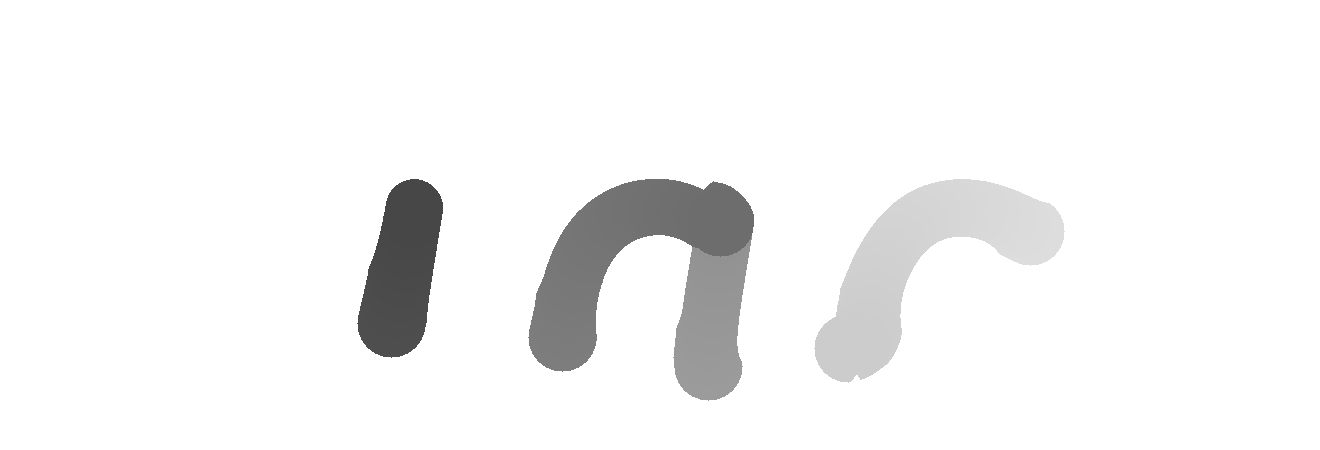
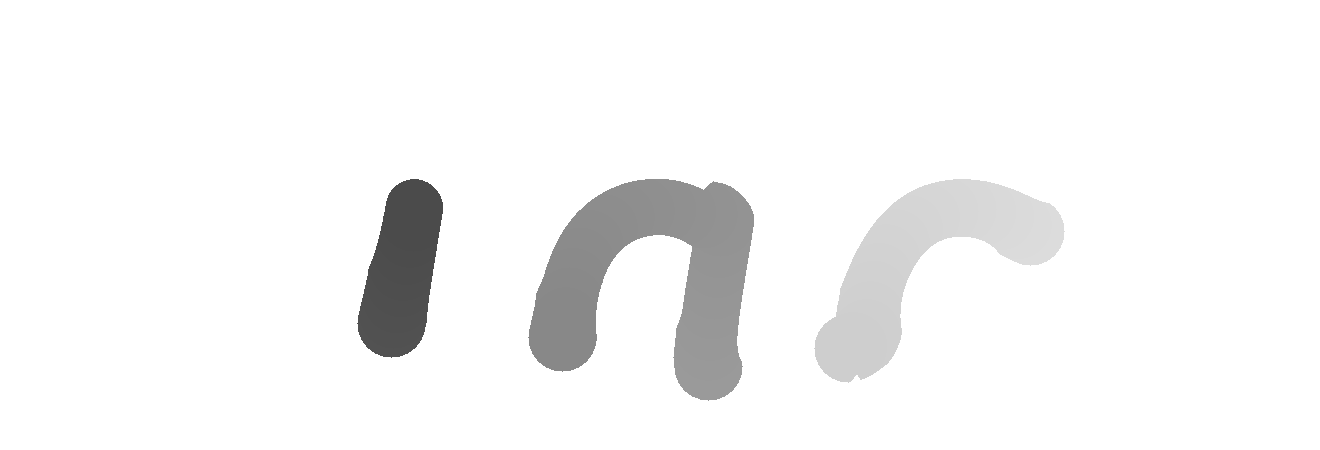
Card Ciao!: percorso fluido senza inversioni (i fino all'apice, a e o in senso orario continuo fino al gambetto) con ownership per segmento

Changed region(s): [[0.4348, 0.3733, 0.5902, 0.5911]]

diff --git a/scripts/gen-ciao-data.js b/scripts/gen-ciao-data.js
@@ -136,66 +136,66 @@ function segLen(pts) {
 
 // Segmenti base del "Ciao!"
 const iUpStartIdx = P0.findIndex(([x, y]) => x >= 388 && y <= 332); // punto in cui la C entra nello stelo della 'i'
-const sC    = P0;                              // C -> sale fino all'apice della 'i' (413, 208)
-const sIDn  = P0.slice(iUpStartIdx).reverse(); // ritorno completo dall'apice della 'i' fino in basso (390, 328)
-const sICon = P1.slice(0, 26);                 // curva bassa della 'i' e collegamento fino a 'a'
-const sAT   = P1.slice(25, 53);                // a: sale a sinistra e gira sopra -> (720, 222)
-const sATBk = [...sAT].reverse();              // a: ritorno sopra in senso antiorario -> (562, 337)
-const sAB   = P2;                              // a: gira sotto da sinistra a destra -> (706, 367)
-const sASUp = P1.slice(52, 69).reverse();      // a: risale lo stelo destro -> (720, 222)
-const sASDn = P1.slice(52, 69);                // a: riscende lo stelo destro -> (708, 366)
-const sAO   = P1.slice(68, 87);                // collegamento a -> o (867, 341)
-const sOT   = P1.slice(86, 117);               // o: sale a sinistra e gira sopra -> (1030, 231)
-const sOB   = P3;                              // o: scende a destra e gira sotto -> (867, 341)
-const sOT2  = P1.slice(86, 117);               // o: risale a sinistra e ripassa sopra -> (1030, 231) per uscire nella codina
-const sOTl  = P1.slice(116);                   // o: codina di uscita -> (1122, 204)
-const sBng  = P4;                              // ! asta
+const sC     = P0;                              // C -> sale fino all'apice della 'i' (413, 208)
+const sIDn   = P0.slice(iUpStartIdx).reverse(); // ritorno completo dall'apice della 'i' fino in basso (390, 328)
+const sICon  = P1.slice(2, 26);                 // curva bassa della 'i' e rampa fino a 'a' (parte dopo il bivio)
+const sAT    = P1.slice(25, 53);                // a: sale a sinistra e gira sopra -> (720, 222)
+const sAS    = P1.slice(52, 69);                // a: scende sullo stelo destro -> (708, 366)
+const sABRev = [...P2].reverse();               // a: chiude il fondo in senso orario -> (562, 343)
+const sAO    = P1.slice(68, 87);                // rampa di collegamento a -> o (867, 341)
+const sOT    = P1.slice(86, 117);               // o: sale a sinistra e gira sopra -> (1030, 231)
+const sOB    = P3;                              // o: scende a destra e chiude il fondo in senso orario -> (867, 341)
+const sOTl   = P1.slice(116);                   // o: gambetto finale nello stesso verso -> (1122, 204)
+const sBng   = P4;                              // ! asta
 
-// Percorso umano completo a penna singola (velocita' lineare costante):
-// pass = 1 (primo passaggio che scopre il vetro), pass = 2 (ripasso che da' profondita'/spessore)
+// Percorso fluido senza cambi di direzione repentini:
+// - C -> sale fino all'apice della 'i' -> stellina -> scende tutta la 'i' -> rampa verso 'a'
+// - 'a': un solo giro continuo in senso orario (sale sx -> sopra -> scende dx -> fondo -> ripasso leggero sopra/dx -> esce)
+// - 'o': dalla rampa della 'a', giro continuo in senso orario (sale sx -> sopra -> scende dx -> fondo -> ripasso sopra -> esce nel gambetto)
 const rawBody = [];
 let cur = 0;
-function pushSeg(pts, pass = 1, gap = 0) {
+function pushSeg(pts, pass = 1, speedMul = 1, gap = 0) {
   cur += gap;
   const len = segLen(pts);
-  rawBody.push({ pts, pass, s0: cur, s1: cur + len });
-  cur += len;
+  const dur = len / speedMul;
+  rawBody.push({ id: rawBody.length, pts, pass, s0: cur, s1: cur + dur });
+  cur += dur;
 }
 
-pushSeg(sC, 1);                 // C -> sale fino all'apice della 'i'
-const sparkStart = cur;         // stellina messa esattamente all'apice della 'i'
-const sparkEnd = sparkStart + 115;
-cur = sparkEnd + 25;
-pushSeg(sIDn, 2);               // scende lungo tutta l'asta della 'i' (ripasso con profondita')
-pushSeg(sICon, 1);              // curva bassa della 'i' fino a 'a'
-pushSeg(sAT, 1);                // a: sale a sinistra e gira sopra
-pushSeg(sATBk, 2);              // a: torna indietro antiorario sopra l'arco (ripasso con profondita')
-pushSeg(sAB, 1);                // a: chiude il fondo da sinistra a destra
-pushSeg(sASUp, 1);              // a: risale lo stelo destro
-pushSeg(sASDn, 2);              // a: riscende lo stelo destro (ripasso con profondita')
-pushSeg(sAO, 1);                // collegamento a -> o
-pushSeg(sOT, 1);                // o: sale a sinistra e gira sopra
-pushSeg(sOB, 1);                // o: scende a destra e chiude il fondo
-pushSeg(sOT2, 2);               // o: ripassa sull'arco superiore per uscire (effetto profondita' sulla O)
-pushSeg(sOTl, 1);               // o: codina di uscita
+pushSeg(sC, 1, 1.0);              // 0: C -> apice 'i'
+const sparkStart = cur;           // stellina esattamente all'apice della 'i'
+const sparkEnd = sparkStart + 105;
+cur = sparkEnd + 18;
+pushSeg(sIDn, 2, 1.15);           // 1: discesa completa della 'i' (ripasso con profondita')
+pushSeg(sICon, 1, 1.0);           // 2: curva bassa 'i' -> rampa 'a'
+pushSeg(sAT, 1, 1.0);             // 3: a sale sx + arco sopra (orario)
+pushSeg(sAS, 1, 1.0);             // 4: a scende stelo dx (orario)
+pushSeg(sABRev, 1, 1.0);          // 5: a chiude il fondo (orario)
+pushSeg(sAT, 2, 1.45);            // 6: a continua orario sopra (ripasso fluido con profondita')
+pushSeg(sAS, 2, 1.45);            // 7: a riscende stelo dx per uscire fluido (ripasso con profondita')
+pushSeg(sAO, 1, 1.0);             // 8: rampa a -> o
+pushSeg(sOT, 1, 1.0);             // 9: o sale sx + arco sopra (orario)
+pushSeg(sOB, 1, 1.0);             // 10: o scende dx + fondo (orario)
+pushSeg(sOT, 2, 1.35);            // 11: o continua orario sopra (ripasso con profondita')
+pushSeg(sOTl, 1, 1.0);            // 12: o conclude nello stesso verso il gambetto finale
 
-const bangStart = cur + 75;     // stacco penna prima del '!'
+const bangStart = cur + 70;       // stacco penna prima del '!'
 const bangEnd = bangStart + segLen(sBng);
-const dotStart = bangEnd + 45;
-const dotEnd = dotStart + 95;
+const dotStart = bangEnd + 40;
+const dotEnd = dotStart + 90;
 const TOTAL = dotEnd;
 
-const pass1Strokes = rawBody.filter(s => s.pass === 1).map(st => ({ pts: st.pts, t0: st.s0 / TOTAL, t1: st.s1 / TOTAL }));
-const pass2Strokes = rawBody.filter(s => s.pass === 2).map(st => ({ pts: st.pts, t0: st.s0 / TOTAL, t1: st.s1 / TOTAL }));
+const pass1Segs = rawBody.filter(s => s.pass === 1).map(st => ({ id: st.id, pts: st.pts, t0: st.s0 / TOTAL, t1: st.s1 / TOTAL }));
+const pass2Segs = rawBody.filter(s => s.pass === 2).map(st => ({ id: st.id, pts: st.pts, t0: st.s0 / TOTAL, t1: st.s1 / TOTAL }));
 const bangT0 = bangStart / TOTAL, bangT1 = bangEnd / TOTAL;
 const dotT0 = dotStart / TOTAL, dotT1 = dotEnd / TOTAL;
 const sparkT0 = sparkStart / TOTAL, sparkT1 = sparkEnd / TOTAL;
-console.log("Total human cursive path:", Math.round(TOTAL), "px | i-apex spark:", sparkT0.toFixed(3), "..", sparkT1.toFixed(3));
+console.log("Total smooth path:", Math.round(TOTAL), "px | i-apex spark:", sparkT0.toFixed(3), "..", sparkT1.toFixed(3));
 
-// Densifica i campioni ogni ~2px lungo il percorso per un inviluppo circolare perfetto
-function densify(strokes) {
+// Densifica i campioni ogni ~2px mantenendo l'id del segmento per evitare bleed prematuri agli incroci
+function densify(segs) {
   const samples = [];
-  for (const st of strokes) {
+  for (const st of segs) {
     const pts = st.pts;
     const total = segLen(pts) || 1;
     let acc = 0;
@@ -208,37 +208,48 @@ function densify(strokes) {
         for (let k = 1; k <= steps; k++) {
           const f = k / steps;
           const t = st.t0 + (st.t1 - st.t0) * ((acc + d * f) / total);
-          samples.push({ x: x0 + (x1 - x0) * f, y: y0 + (y1 - y0) * f, t });
+          samples.push({ x: x0 + (x1 - x0) * f, y: y0 + (y1 - y0) * f, t, seg: st.id });
         }
         acc += d;
       } else {
-        samples.push({ x: pts[0][0], y: pts[0][1], t: st.t0 });
+        samples.push({ x: pts[0][0], y: pts[0][1], t: st.t0, seg: st.id });
       }
     }
   }
   return samples;
 }
 
-const bodyP1 = densify(pass1Strokes);
-const bodyP2 = densify(pass2Strokes);
-const bangSamples = densify([{ pts: sBng, t0: bangT0, t1: bangT1 }]);
+const bodyP1 = densify(pass1Segs);
+const bodyP2 = densify(pass2Segs);
+const bangSamples = densify([{ id: 99, pts: sBng, t0: bangT0, t1: bangT1 }]);
 
-// Punta a sfera esatta: il primo istante t in cui un cerchio di raggio PEN_R lungo il tratto tocca (x, y).
-const PEN_R = 40;
+// Punta a sfera per segmento: ogni pixel appartiene al segmento piu' vicino (ownerSeg) e accetta
+// solo campioni di ownerSeg o del segmento direttamente adiacente nella sequenza (|seg - ownerSeg| <= 1).
+// Cosi' la C che sale sulla 'i' NON accende prima il tratto d'uscita della 'i', e la 'o' NON accende prima il gambetto finale!
+const PEN_R = 38;
 const PEN_R2 = PEN_R * PEN_R;
-const PEN_R2_P2 = 34 * 34; // leggermente piu' stretto sul ripasso per un rilievo centrale elegante
+const PEN_R2_P2 = 34 * 34;
 
-function ballpointTime(x, y, samples, fallback = true) {
-  let firstT = Infinity;
-  let bestD = Infinity, bestT = 0;
-  const r2 = fallback ? PEN_R2 : PEN_R2_P2;
+function ballpointOwned(x, y, samples, fallback = true) {
+  // 1. Trova il segmento proprietario (piu' vicino alla linea centrale)
+  let bestD = Infinity, bestT = 0, ownerSeg = -1;
   for (let i = 0; i < samples.length; i++) {
+    const dx = x - samples[i].x, dy = y - samples[i].y;
+    const d2 = dx * dx + dy * dy;
+    if (d2 < bestD) { bestD = d2; bestT = samples[i].t; ownerSeg = samples[i].seg; }
+  }
+  const r2 = fallback ? PEN_R2 : PEN_R2_P2;
+  if (!fallback && bestD > r2) return 1.0;
+
+  // 2. Calcola il primo istante della punta circolare solo sul segmento proprietario (o adiacente continuo)
+  let firstT = Infinity;
+  for (let i = 0; i < samples.length; i++) {
+    if (Math.abs(samples[i].seg - ownerSeg) > 1) continue;
     const dx = x - samples[i].x, dy = y - samples[i].y;
     const d2 = dx * dx + dy * dy;
     if (d2 <= r2 && samples[i].t < firstT) {
       firstT = samples[i].t;
     }
-    if (fallback && d2 < bestD) { bestD = d2; bestT = samples[i].t; }
   }
   if (firstT < Infinity) return firstT;
   return fallback ? bestT : 1.0;
@@ -260,10 +271,10 @@ for (let y = 0; y < H; y++) {
     let t2 = 1.0;
     const c = comp[i];
     if (c === cBody) {
-      t1 = ballpointTime(x, y, bodyP1, true);
-      t2 = ballpointTime(x, y, bodyP2, false);
+      t1 = ballpointOwned(x, y, bodyP1, true);
+      t2 = ballpointOwned(x, y, bodyP2, false);
     } else if (c === cBang) {
-      t1 = ballpointTime(x, y, bangSamples, true);
+      t1 = ballpointOwned(x, y, bangSamples, true);
     } else if (c === cDot) {
       const dr = Math.min(1, Math.hypot(x - 1201, y - 384) / 48);
       t1 = dotT0 + dr * (dotT1 - dotT0);
